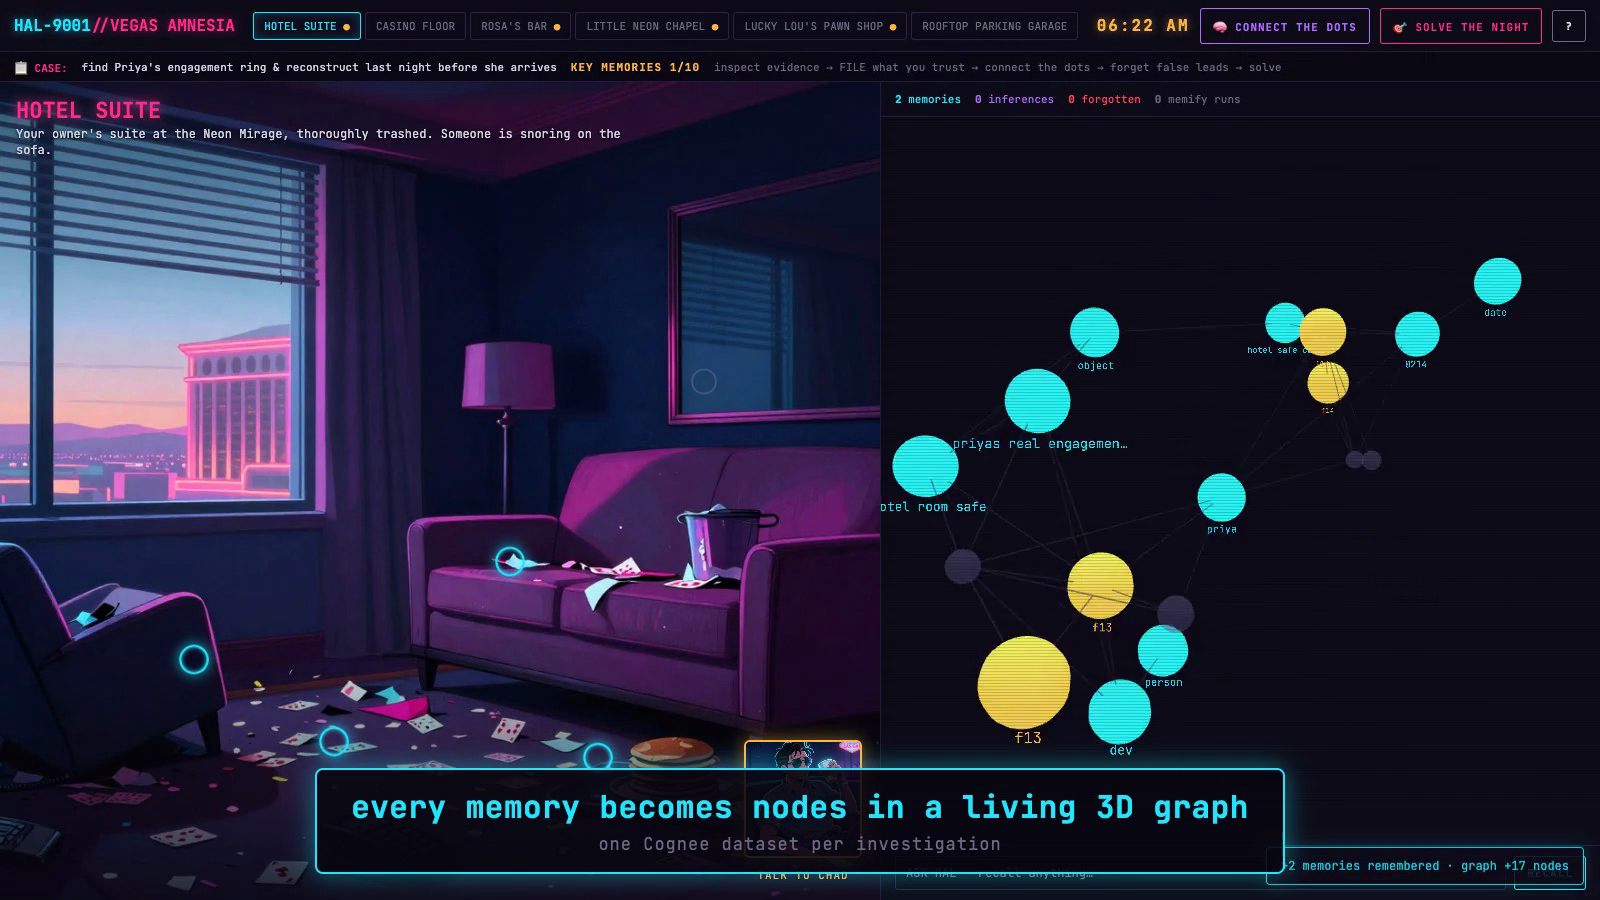
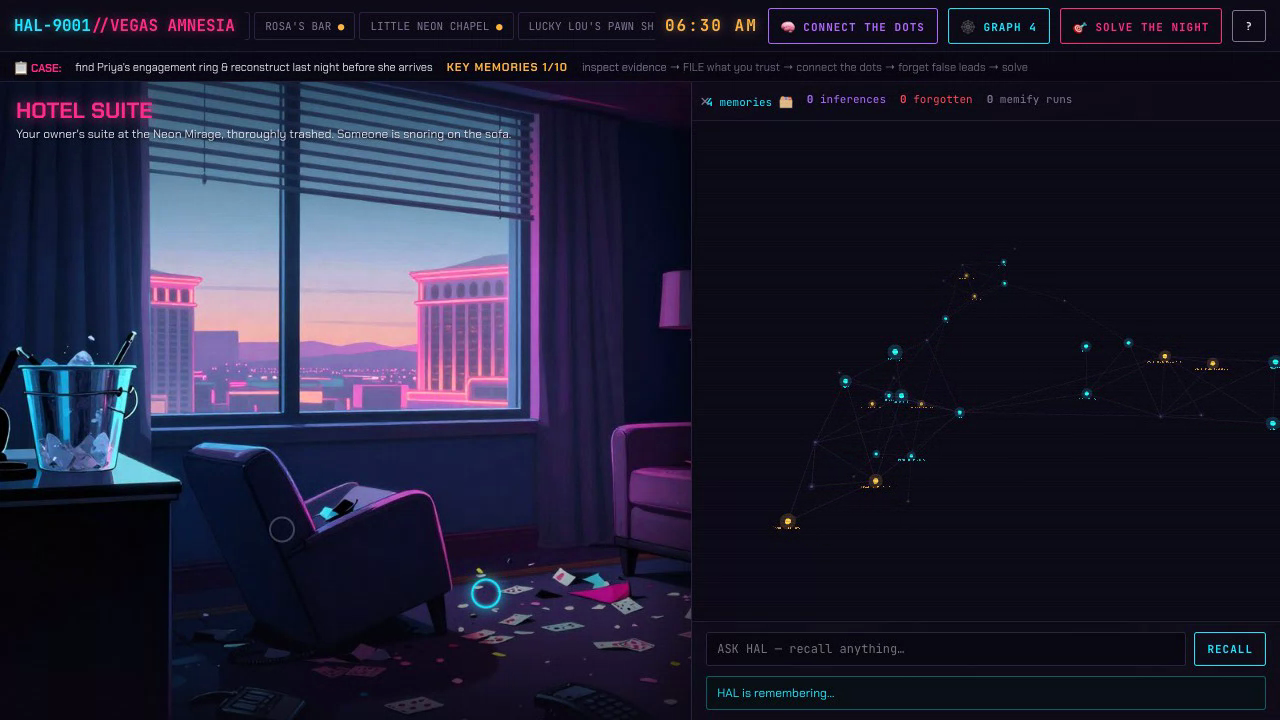
Win/lose finale animations (confetti + pop on win, glitch + red flash on lose); fresh README GIF + hero from current UI (graph toggle, new fonts); README polish

diff --git a/frontend/css/style.css b/frontend/css/style.css
@@ -218,8 +218,31 @@ html, body { height: 100%; background: var(--bg); color: var(--text); font-famil
   display: flex; flex-direction: column; align-items: center; justify-content: center; padding: 30px; text-align: center;
 }
 #ending-verdict-title { font-family: "Monoton", cursive; font-size: 46px; margin-bottom: 8px; }
-#ending-verdict-title.win { color: var(--cyan); text-shadow: 0 0 20px rgba(34,230,255,.7); }
-#ending-verdict-title.lose { color: var(--red); text-shadow: 0 0 20px rgba(255,71,87,.7); }
+#ending-verdict-title.win { color: var(--cyan); text-shadow: 0 0 20px rgba(34,230,255,.7); animation: winpop 1s cubic-bezier(.2,1.4,.4,1) both; }
+#ending-verdict-title.lose { color: var(--red); text-shadow: 0 0 20px rgba(255,71,87,.7); animation: loseglitch .5s steps(2) 3; }
+@keyframes winpop {
+  0% { transform: scale(.4); opacity: 0; filter: blur(8px); }
+  60% { transform: scale(1.12); }
+  100% { transform: scale(1); opacity: 1; filter: blur(0); }
+}
+@keyframes loseglitch {
+  0% { transform: translate(0,0); text-shadow: 0 0 20px rgba(255,71,87,.7); }
+  25% { transform: translate(-4px,1px); text-shadow: 3px 0 var(--cyan), -3px 0 var(--red); }
+  50% { transform: translate(4px,-1px); text-shadow: -3px 0 var(--cyan), 3px 0 var(--red); }
+  75% { transform: translate(-2px,0); }
+  100% { transform: translate(0,0); text-shadow: 0 0 20px rgba(255,71,87,.7); }
+}
+#ending-screen.win-flash { animation: winflash 1.4s ease-out; }
+#ending-screen.lose-flash { animation: loseflash .9s ease-out; }
+@keyframes winflash { 0% { background: rgba(34,230,255,.25); } 100% { background: rgba(5,3,8,.96); } }
+@keyframes loseflash { 0%,20% { background: rgba(255,71,87,.22); } 100% { background: rgba(5,3,8,.96); } }
+/* confetti */
+#confetti { position: fixed; inset: 0; z-index: 81; pointer-events: none; overflow: hidden; }
+.confetti-bit { position: absolute; top: -20px; width: 9px; height: 14px; opacity: .95; will-change: transform; animation: conffall linear forwards; }
+@keyframes conffall {
+  0% { transform: translateY(-20px) rotate(0deg); opacity: 1; }
+  100% { transform: translateY(105vh) rotate(720deg); opacity: .9; }
+}
 #ending-verdict { max-width: 720px; color: var(--text); font-size: 14px; line-height: 1.6; margin-bottom: 22px; }
 #ending-columns { display: flex; gap: 40px; max-width: 980px; text-align: left; margin-bottom: 24px; overflow-y: auto; }
 #ending-columns h3 { color: var(--pink); font-size: 13px; margin-bottom: 10px; letter-spacing: 2px; }

diff --git a/frontend/js/main.js b/frontend/js/main.js
@@ -174,11 +174,35 @@ const Main = (() => {
     btn.disabled = false; btn.textContent = "🎯 SOLVE THE NIGHT";
   };
 
+  function launchConfetti() {
+    const wrap = document.createElement("div");
+    wrap.id = "confetti";
+    const colors = ["#ff2e88", "#22e6ff", "#b26bff", "#ffb545", "#ffffff"];
+    for (let i = 0; i < 120; i++) {
+      const bit = document.createElement("div");
+      bit.className = "confetti-bit";
+      bit.style.left = Math.random() * 100 + "vw";
+      bit.style.background = colors[i % colors.length];
+      bit.style.animationDuration = (2 + Math.random() * 2.5) + "s";
+      bit.style.animationDelay = (Math.random() * 0.6) + "s";
+      bit.style.width = (6 + Math.random() * 7) + "px";
+      bit.style.height = (10 + Math.random() * 10) + "px";
+      wrap.appendChild(bit);
+    }
+    document.body.appendChild(wrap);
+    setTimeout(() => wrap.remove(), 5200);
+  }
+
   function showEnding(resp) {
     const r = resp.result;
     const title = $("ending-verdict-title");
     title.textContent = r.won ? "NIGHT RECONSTRUCTED" : "MEMORY INCOMPLETE";
     title.className = r.won ? "win" : "lose";
+    const screen = $("ending-screen");
+    screen.classList.remove("win-flash", "lose-flash");
+    void screen.offsetWidth; // restart the flash animation
+    screen.classList.add(r.won ? "win-flash" : "lose-flash");
+    if (r.won) launchConfetti();
     $("ending-verdict").textContent = r.verdict;
     const ol = $("ending-timeline");
     ol.innerHTML = "";

diff --git a/frontend/index.html b/frontend/index.html
@@ -6,8 +6,8 @@
 <title>VEGAS AMNESIA — HAL-9001</title>
 <link rel="preconnect" href="https://fonts.googleapis.com">
 <link href="https://fonts.googleapis.com/css2?family=Chakra+Petch:wght@400;500;600;700&family=JetBrains+Mono:wght@400;700&family=Monoton&display=swap" rel="stylesheet">
-<link rel="stylesheet" href="css/style.css?v=13">
-<script src="js/vendor/graph3d.bundle.js?v=13"></script>
+<link rel="stylesheet" href="css/style.css?v=14">
+<script src="js/vendor/graph3d.bundle.js?v=14"></script>
 </head>
 <body>
 
@@ -148,11 +148,11 @@
 
 <div id="toast-stack"></div>
 
-<script src="js/config.js?v=13"></script>
-<script src="js/api.js?v=13"></script>
-<script src="js/graph.js?v=13"></script>
-<script src="js/scene.js?v=13"></script>
-<script src="js/chat.js?v=13"></script>
-<script src="js/main.js?v=13"></script>
+<script src="js/config.js?v=14"></script>
+<script src="js/api.js?v=14"></script>
+<script src="js/graph.js?v=14"></script>
+<script src="js/scene.js?v=14"></script>
+<script src="js/chat.js?v=14"></script>
+<script src="js/main.js?v=14"></script>
 </body>
 </html>

diff --git a/README.md b/README.md
@@ -35,9 +35,11 @@ His fiancée **Priya** lands at noon — and there's a suspicious ring on his fi
 
 You are **HAL-9001** (HAL 9000's slightly more helpful successor), and your mind is
 literally a knowledge graph. Every piece of evidence you *file*, every witness confession,
-becomes real memory in a real Cognee Cloud dataset — and appears as glowing nodes in a
-rotating 3D graph that fills half the screen. Some evidence is a lie. Filing it poisons
-your memory. Deleting it is the only cure.
+becomes real memory in a real Cognee Cloud dataset — glowing nodes in a live 3D graph you
+pop open whenever you want to think. Some evidence is a lie. Filing it poisons your memory.
+Deleting it is the only cure. Reconstruct enough of the truth, purge the lies, and **Solve
+the Night** — get it right and the timeline snaps back together in a burst of confetti; get
+it wrong and the memory glitches out, incomplete.
 
 ## How the memory lifecycle became game mechanics
 
@@ -46,7 +48,7 @@ your memory. Deleting it is the only cure.
 | **remember** | `POST /api/v1/remember` — one data item per fact, auto-cognified, named by fact id | 🗂 **FILE IT** — evidence & testimony become cyan graph nodes |
 | **recall** | `POST /api/v1/recall` + `includeReferences` | ❓ **ASK HAL** — free-text questions; cited source nodes pulse amber |
 | **memify** | `POST /api/v1/cognify` re-run with an inference-extraction prompt¹ + derived facts remembered | 🧠 **CONNECT THE DOTS** — purple inference nodes with particle edges |
-| **forget** | `POST /api/v1/forget` with `dataId` | 🗑 **right-click a node** — red herrings die on screen, for real |
+| **forget** | `POST /api/v1/forget` with `dataId` | 🗑 **Memory Log** — review every filed memory, delete the red herrings; nodes die on screen, for real |
 
 ¹ Our tenant doesn't expose `/api/v1/memify`, so per the closest-equivalent rule memify =
 `cognify` re-run whose `customPrompt` extracts temporal/causal/contradiction relationships